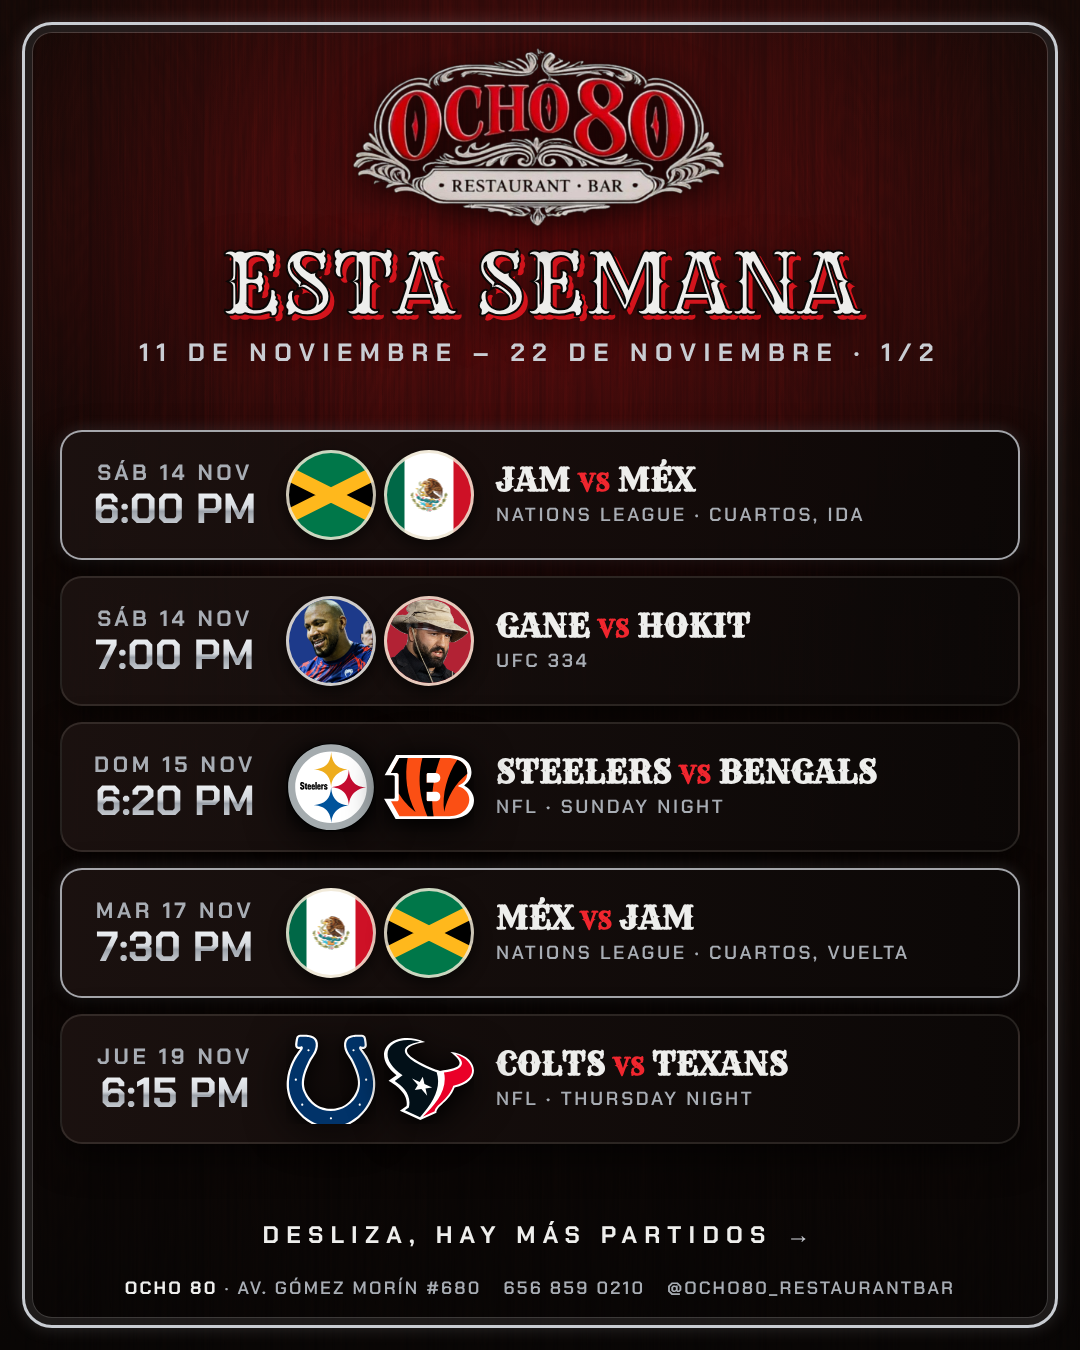
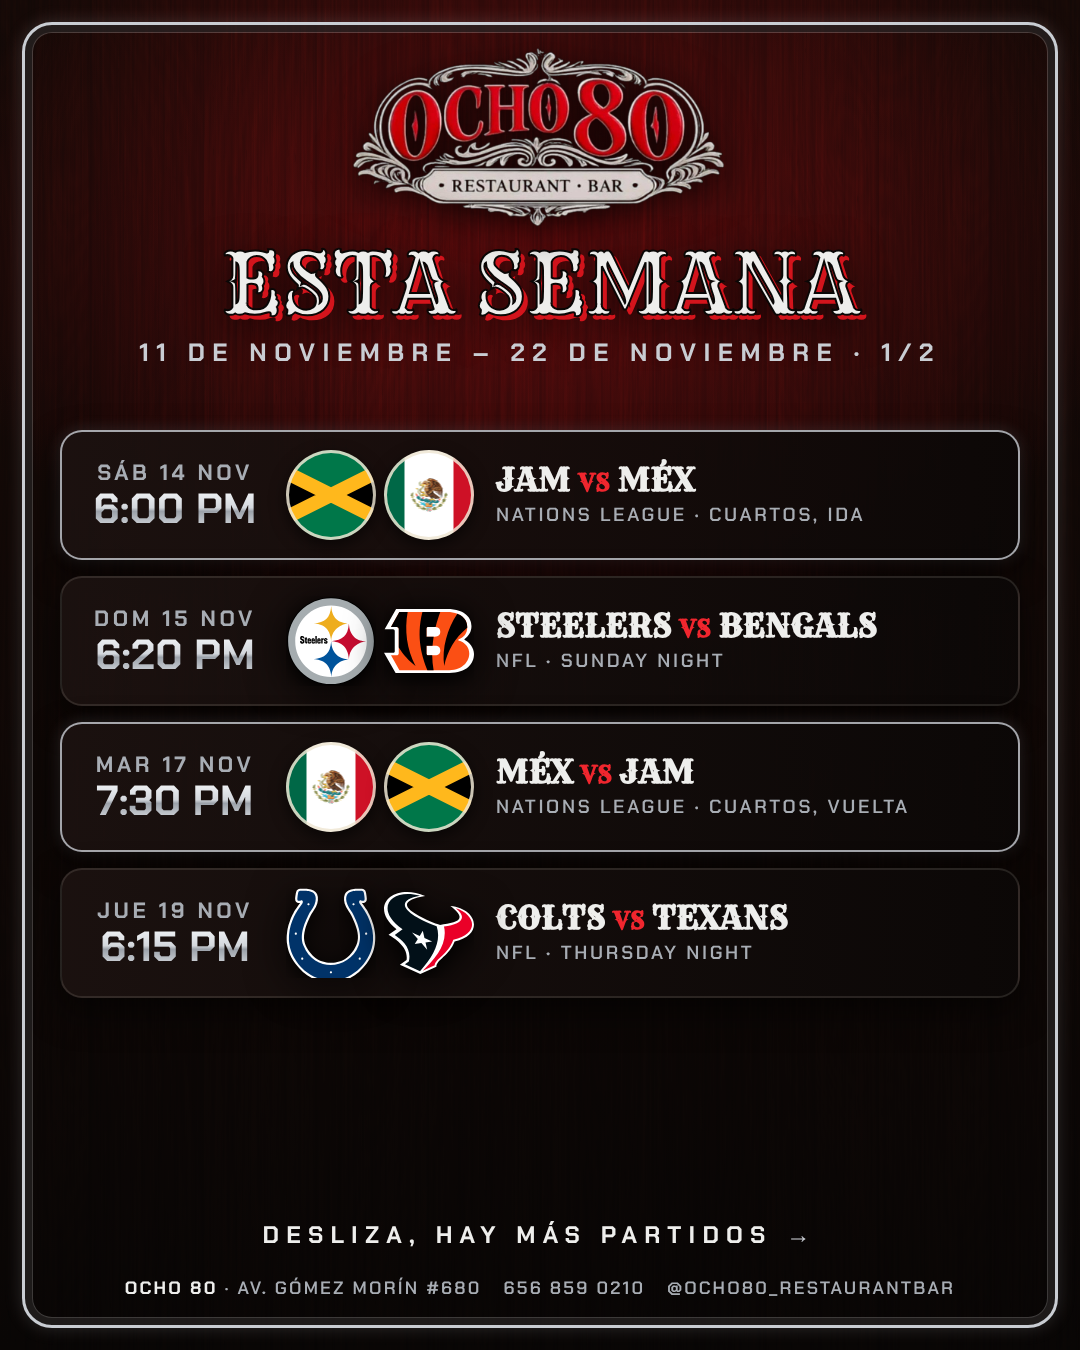
Flyers: focus flag backgrounds on each flag's key element, drop the red badge, pick one flyer when events overlap
- FLAG_FOCUS per flag; flag fades at the edges instead of a hard crop
- remove the 'Partido destacado' chip
- priority.js + priorities.json: overlapping events -> post the highest score; others to alternativas/
- plan-de-publicacion.md explains each choice; cover lists posted games only

Claude-Session: https://claude.ai/code/session_01TWvdkjVjQiz8FCpgTmoDNT

diff --git a/scripts/build-flyers.js b/scripts/build-flyers.js
@@ -17,8 +17,9 @@
 import { readFileSync, writeFileSync, mkdirSync, rmSync } from 'node:fs'
 import { createRequire } from 'node:module'
 import { pathToFileURL, fileURLToPath } from 'node:url'
-import { eventFlyer, roundupFlyer, fmtDate, SIZES } from './flyers/templates.js'
+import { eventFlyer, roundupFlyer, fmtDate, fmtShortDay, fmtTime, SIZES } from './flyers/templates.js'
 import { VENUE_TZ } from '../src/data/events/schema.js'
+import { planPosts } from './flyers/priority.js'
 
 const args = process.argv.slice(2)
 const flag = (n) => args.includes(`--${n}`)
@@ -30,6 +31,7 @@ const days = Number(val('days') ?? 7)
 const read = (p) => JSON.parse(readFileSync(new URL(p, import.meta.url), 'utf8'))
 const promos = read('../src/data/events/promos-by-sport.json')
 const participants = read('../src/data/events/participants.json')
+const priorities = read('../src/data/events/priorities.json')
 const outDir = fileURLToPath(new URL('../flyers/out/', import.meta.url))
 const promoFor = (e) => { const p = e.promoId && promos[e.promoId]; return p?.approved ? p.text.es : null }
 const resolve = (slug) => (participants[slug] ? { slug, ...participants[slug] } : null)
@@ -77,13 +79,36 @@ const endOfDayInJuarez = (ms) => {
   return Date.parse(`${f.year}-${f.month}-${f.day}T23:59:59${off}`)
 }
 const end = endOfDayInJuarez(now + days * 24 * 3600 * 1000)
-const week = val('id') ? [] : events.filter((e) => Date.parse(e.kickoff) <= end)
-const later = events.filter((e) => !week.includes(e))
 
+// Which flyers to post: when events overlap in time, only the highest-priority one is posted (see priorities.json).
+const plan = val('id') ? { posted: events, skipped: [], scores: new Map() } : planPosts(events, priorities)
+const inWeek = (e) => Date.parse(e.kickoff) <= end
+const week = val('id') ? [] : plan.posted.filter(inWeek)
+const later = plan.posted.filter((e) => !inWeek(e))
+const alternates = plan.skipped.map((s) => s.event)
+
+const hhmm = (e) => `${fmtShortDay(e.kickoff)} ${fmtTime(e.kickoff)}`
+const name = (e) => (e.sides?.[0] && e.sides?.[1] ? `${e.sides[0].name.es} vs. ${e.sides[1].name.es}` : e.title.es)
+function writePlan() {
+  const lines = ['# Plan de publicación', '', `Generado ${new Date(now).toISOString().slice(0, 10)} · hora de Ciudad Juárez. Si dos eventos se empalman, solo se publica el de mayor prioridad (config: \`src/data/events/priorities.json\`).`, '']
+  lines.push('## Publicar', '')
+  for (const e of plan.posted) { const s = plan.scores.get(e.id); lines.push(`- **${name(e)}** · ${hhmm(e)} · ${e.league} · puntos ${s?.score ?? '-'} (${s?.why.join(', ') ?? ''})`) }
+  lines.push('', '## No publicar (se empalma con uno de mayor prioridad)', '')
+  if (!plan.skipped.length) lines.push('- Ninguno: no hay eventos empalmados.')
+  for (const { event: e, conflictsWith: c } of plan.skipped) { const s = plan.scores.get(e.id); lines.push(`- ${name(e)} · ${hhmm(e)} · puntos ${s.score} (${s.why.join(', ')}) → se empalma con **${name(c)}** (${hhmm(c)}, puntos ${plan.scores.get(c.id).score}). Su flyer está en \`alternativas/\` por si prefieres publicarlo en lugar del otro.`) }
+  return lines.join('\n') + '\n'
+}
+if (!val('id')) {
+  mkdirSync(outDir, { recursive: true })
+  writeFileSync(`${outDir}plan-de-publicacion.md`, writePlan())
+  console.log(`✓ flyers/out/plan-de-publicacion.md (${plan.posted.length} a publicar, ${plan.skipped.length} empalmados)`)
+}
+
+const stamp = new Date(now).toISOString().slice(0, 10)
+const folder = `esta-semana-${stamp}`
 if (week.length) {
-  const folder = `esta-semana-${new Date(now).toISOString().slice(0, 10)}`
   const rangeLabel = `${fmtDate(new Date(now).toISOString())} – ${fmtDate(new Date(end).toISOString())}`
-  // 6 games per cover; a busy week gets 00a, 00b… so every game is listed
+  // 6 games per cover; a busy week gets 00a, 00b… so every posted game is listed
   const pages = []
   const perPage = Math.ceil(week.length / Math.ceil(week.length / 6)) // balanced: 10 games -> 5 + 5, not 6 + 4
   for (let i = 0; i < week.length; i += perPage) pages.push(week.slice(i, i + perPage))
@@ -98,6 +123,8 @@ if (week.length) {
   }
 }
 for (const e of later) await render(eventFlyer(e, promoFor(e), SIZE), SIZE, `proximos/${e.id}.png`)
+// flyers for events that lost a time slot: kept, but out of the carousel
+for (const e of alternates) await render(eventFlyer(e, promoFor(e), SIZE), SIZE, `alternativas/${e.id}.png`)
 
 rmSync(tmp, { force: true })
 await browser.close()

diff --git a/scripts/flyers/templates.js b/scripts/flyers/templates.js
@@ -44,6 +44,19 @@ export function visual(p) {
   }
 }
 
+// ---------- flags as backgrounds ----------
+// Where the flag's recognisable part sits, as [x%, y%] of the flag image. The background is positioned so this point lands
+// on the side's focal point, instead of cropping the flag to whatever slice happens to be in the middle.
+const FLAG_FOCUS = {
+  mx: [50, 50], // coat of arms
+  jm: [50, 50], // gold saltire
+  cz: [21, 50], // blue triangle
+  nz: [76, 52], // Southern Cross
+  us: [22, 27], // star canton
+  fr: [50, 50],
+  br: [50, 50], // globe
+}
+
 // ---------- shared css ----------
 const CSS = ({ w, h }) => `
 @font-face{font-family:Rye;src:url(${font('rye', 'rye-latin-400-normal.woff2')})}
@@ -126,10 +139,15 @@ export function eventFlyer(event, promo, size = 'feed') {
   const sideBg = (p, v, side) => {
     const [c1, c2] = p.colors ?? ['#333', '#111']
     const poly = side === 'L' ? `0 0,${seamTop}% 0,${seamBottom}% 100%,0 100%` : `${seamTop}% 0,100% 0,100% 100%,${seamBottom}% 100%`
-    const big = v.flag && p.kind === 'country'
-      ? `<img class="flagfill" src="${v.flag}" alt="">`
+    const flagBg = (soft) => {
+      const [fx, fy] = FLAG_FOCUS[p.flag] ?? [50, 50]
+      const tx = soft ? (side === 'L' ? 0.26 : 0.74) * w : cx(side)
+      const ty = soft ? 0.42 * h : 0.33 * h
+      return `<img class="flagfill${soft ? ' flagsoft' : ''}" src="${v.flag}" alt="" style="left:${Math.round(tx)}px;top:${Math.round(ty)}px;height:${soft ? 760 : 980}px;transform:translate(-${fx}%,-${fy}%)">`
+    }
+    const big = v.flag && p.kind === 'country' ? flagBg(false)
       : v.logo ? `<img class="ghost ghost-${side}" src="${v.logo}" alt="">`
-      : v.flag ? `<img class="flagfill flagsoft" src="${v.flag}" alt="">` : ''
+      : v.flag ? flagBg(true) : ''
     return `<div class="side" style="clip-path:polygon(${poly});background:linear-gradient(${side === 'L' ? '135deg' : '225deg'},${c1} 0%,${c1} 35%,${c2} 140%)">${big}<div class="shade-${side}"></div></div>`
   }
 
@@ -153,7 +171,7 @@ export function eventFlyer(event, promo, size = 'feed') {
 
   const css = `
 .side{position:absolute;inset:0;z-index:0;overflow:hidden}
-.flagfill{position:absolute;inset:-6%;width:112%;height:112%;object-fit:cover;opacity:.55;filter:saturate(1.15)}
+.flagfill{position:absolute;width:auto;max-width:none;opacity:.5;filter:saturate(1.15);-webkit-mask-image:linear-gradient(180deg,transparent 0%,#000 14%,#000 62%,transparent 100%);mask-image:linear-gradient(180deg,transparent 0%,#000 14%,#000 62%,transparent 100%)}
 .flagsoft{opacity:.25}
 .ghost{position:absolute;top:${story ? 18 : 10}%;width:${story ? 900 : 780}px;height:${story ? 900 : 780}px;object-fit:contain;opacity:.16;filter:grayscale(.2) brightness(1.4)}
 .ghost-L{left:-${story ? 330 : 300}px;transform:rotate(-12deg)}
@@ -190,7 +208,7 @@ export function eventFlyer(event, promo, size = 'feed') {
 ${sideBg(A, va, 'L')}${sideBg(B, vb, 'R')}
 <div class="seam"></div>
 <div class="layer wood"></div><div class="layer vignette"></div>
-<div class="top">${LOGO()}${event.featured ? `<span class="tag">${STAR} Partido destacado</span>` : ''}<span class="label">${label}</span></div>
+<div class="top">${LOGO()}<span class="label">${label}</span></div>
 ${hero(A, va, 'L')}${hero(B, vb, 'R')}
 <div class="vs rye">VS</div>
 ${name(A, va, 'L')}${name(B, vb, 'R')}

diff --git a/scripts/flyers/priority.js b/scripts/flyers/priority.js
@@ -1,0 +1,57 @@
+// Decides which flyers to post when events happen at the same time.
+// Pure functions: no files, no network. Config lives in src/data/events/priorities.json.
+
+const HOUR = 3600 * 1000
+
+/** Score an event and say why. An explicit event.priority replaces the computed base. */
+export function scoreEvent(e, cfg) {
+  const why = []
+  let score
+  if (typeof e.priority === 'number') {
+    score = e.priority
+    why.push(`prioridad manual ${e.priority}`)
+  } else {
+    const base = cfg.sportBase[e.sport] ?? cfg.sportBase.other ?? 0
+    score = base
+    why.push(`${e.sport} ${base}`)
+    let best = null
+    for (const slug of e.matchup ?? []) {
+      const b = cfg.participantBonus?.[slug]
+      if (b && (!best || b > best.b)) best = { slug, b }
+    }
+    if (best) { score += best.b; why.push(`${best.slug} +${best.b}`) }
+  }
+  if (e.featured) { score += cfg.featuredBonus ?? 0; why.push(`destacado +${cfg.featuredBonus ?? 0}`) }
+  return { score, why }
+}
+
+const windowOf = (e, cfg) => {
+  const start = Date.parse(e.kickoff)
+  return [start, start + (cfg.durationHours[e.sport] ?? cfg.durationHours.other ?? 3) * HOUR]
+}
+const overlaps = (a, b) => a[0] < b[1] && b[0] < a[1]
+
+/**
+ * Greedy pick: best score first; an event is posted unless it overlaps one that was already picked.
+ * Returns { posted: Event[] (by kickoff), skipped: [{event, conflictsWith: Event}], scores: Map(id -> {score, why}) }.
+ */
+export function planPosts(events, cfg) {
+  const scores = new Map(events.map((e) => [e.id, scoreEvent(e, cfg)]))
+  const order = [...events].sort((a, b) =>
+    scores.get(b.id).score - scores.get(a.id).score ||
+    Number(!!b.featured) - Number(!!a.featured) ||
+    Date.parse(a.kickoff) - Date.parse(b.kickoff) ||
+    a.id.localeCompare(b.id))
+  const posted = []
+  const skipped = []
+  for (const e of order) {
+    const w = windowOf(e, cfg)
+    const clash = posted.find((p) => overlaps(w, windowOf(p, cfg)))
+    if (clash) skipped.push({ event: e, conflictsWith: clash })
+    else posted.push(e)
+  }
+  const byKickoff = (a, b) => Date.parse(a.kickoff) - Date.parse(b.kickoff)
+  posted.sort(byKickoff)
+  skipped.sort((a, b) => byKickoff(a.event, b.event))
+  return { posted, skipped, scores }
+}

diff --git a/src/data/events/schema.js b/src/data/events/schema.js
@@ -17,6 +17,7 @@ export function validateEvent(e, { promoIds = [], participantIds = null } = {}) 
   need(typeof e.kickoff === 'string' && ISO_WITH_OFFSET.test(e.kickoff) && !Number.isNaN(Date.parse(e.kickoff)), 'kickoff must be ISO-8601 with UTC offset, e.g. 2026-11-21T19:00:00-07:00')
   need(typeof e.verified === 'boolean', 'verified must be true/false')
   if (e.promoId != null && e.promoId !== '') need(promoIds.includes(e.promoId), `promoId "${e.promoId}" not found in promos-by-sport.json`)
+  if (e.priority != null) need(typeof e.priority === 'number' && Number.isFinite(e.priority), 'priority must be a number (optional; overrides the computed flyer score)')
   if (e.matchup != null) {
     need(Array.isArray(e.matchup) && e.matchup.length === 2 && e.matchup.every((s) => typeof s === 'string'), 'matchup must be [left, right] participant slugs')
     if (participantIds && Array.isArray(e.matchup)) for (const s of e.matchup) need(participantIds.includes(s), `matchup "${s}" not found in participants.json`)

diff --git a/flyers/out/plan-de-publicacion.md b/flyers/out/plan-de-publicacion.md
@@ -1,0 +1,25 @@
+# Plan de publicación
+
+Generado 2026-11-12 · hora de Ciudad Juárez. Si dos eventos se empalman, solo se publica el de mayor prioridad (config: `src/data/events/priorities.json`).
+
+## Publicar
+
+- **Jamaica vs. México** · sáb 14 nov 6:00 PM · Nations League · Cuartos, ida · puntos 150 (soccer 30, mexico +100, destacado +20)
+- **Steelers vs. Bengals** · dom 15 nov 6:20 PM · NFL · Sunday Night · puntos 25 (football 25)
+- **México vs. Jamaica** · mar 17 nov 7:30 PM · Nations League · Cuartos, vuelta · puntos 150 (soccer 30, mexico +100, destacado +20)
+- **Colts vs. Texans** · jue 19 nov 6:15 PM · NFL · Thursday Night · puntos 25 (football 25)
+- **FC Juárez vs. Atlas** · vie 20 nov 8:00 PM · Liga MX · Jornada 17 · puntos 140 (soccer 30, fc-juarez +90, destacado +20)
+- **Jiří Procházka vs. Navajo Stirling** · sáb 21 nov 3:00 PM · UFC Fight Night · puntos 30 (mma 30)
+- **Titans vs. Cowboys** · dom 22 nov 11:00 AM · NFL · Semana 11 · puntos 60 (football 25, cowboys +35)
+- **Vikings vs. 49ers** · dom 22 nov 6:20 PM · NFL · Juego en la Ciudad de México · puntos 45 (football 25, destacado +20)
+- **Bengals vs. Commanders** · lun 23 nov 6:15 PM · NFL · Monday Night · puntos 25 (football 25)
+- **Bears vs. Lions** · jue 26 nov 11:00 AM · NFL · Thanksgiving · puntos 25 (football 25)
+- **Eagles vs. Cowboys** · jue 26 nov 2:30 PM · NFL · Thanksgiving · puntos 80 (football 25, cowboys +35, destacado +20)
+- **Chiefs vs. Bills** · jue 26 nov 6:20 PM · NFL · Thanksgiving · puntos 25 (football 25)
+- **Patriots vs. Chargers** · dom 29 nov 6:20 PM · NFL · Sunday Night · puntos 25 (football 25)
+- **Panthers vs. Buccaneers** · lun 30 nov 6:15 PM · NFL · Monday Night · puntos 25 (football 25)
+- **Charles Oliveira vs. Diego Lopes** · sáb 12 dic 7:00 PM · UFC 335 · puntos 50 (mma 30, destacado +20)
+
+## No publicar (se empalma con uno de mayor prioridad)
+
+- Ciryl Gane vs. Josh Hokit · sáb 14 nov 7:00 PM · puntos 30 (mma 30) → se empalma con **Jamaica vs. México** (sáb 14 nov 6:00 PM, puntos 150). Su flyer está en `alternativas/` por si prefieres publicarlo en lugar del otro.

diff --git a/research/README.md b/research/README.md
@@ -56,6 +56,8 @@ The finished PNGs are committed in `flyers/out/` so you can browse them in the r
 
 Flyers never show the broadcaster/streaming brand; `channel` is kept in the data for reference only.
 
+**When events overlap** (kickoff windows intersect, e.g. a México match and a UFC card), the system picks one to post. Score = sport base + best participant bonus (México 100, FC Juárez 90, Cowboys 35…) + featured 20, set in `src/data/events/priorities.json`; give an event a `"priority": N` to override. The winner goes in the carousel, the loser's flyer goes in `flyers/out/alternativas/`, and `flyers/out/plan-de-publicacion.md` explains every choice. The "Esta semana" cover only lists posted games.
+
 Participants (teams, countries, fighters) live in `src/data/events/participants.json`; an event points at two of them with `"matchup": ["left-slug", "right-slug"]`. To use an official/licensed image instead of the downloaded one, drop it in `flyers/assets/custom/<slug>.png|svg|jpg` — custom always wins.
 
 **Rights:** team/league logos are trademarks and agency photos are copyrighted. Check credits.json and the source pages before posting commercially, and prefer club-provided media kits when you can get them.
